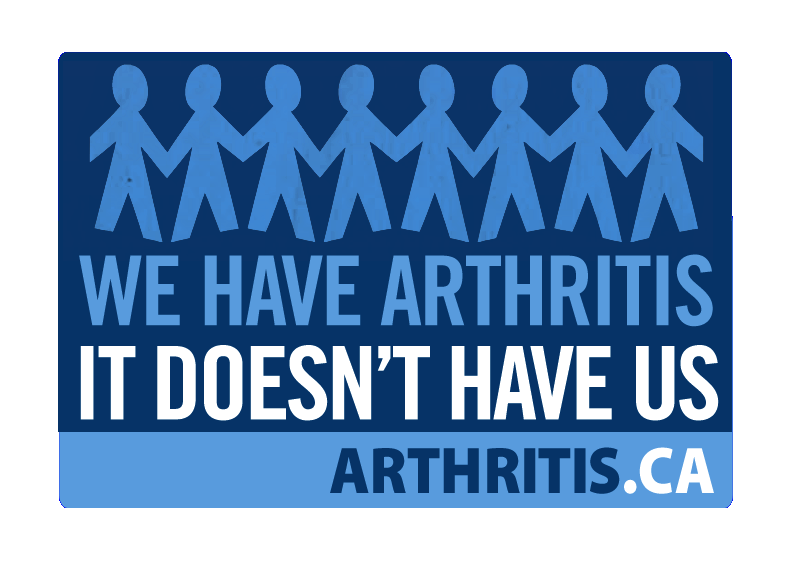
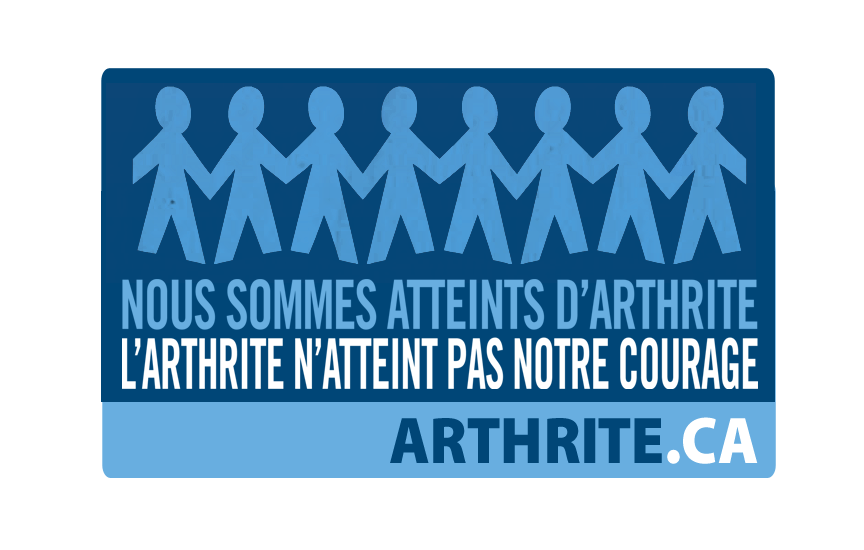
update images for french

diff --git a/lib/helpers/application_helper.rb b/lib/helpers/application_helper.rb
@@ -44,7 +44,7 @@ module Sinatra
      
     def twitter_message(photo_url)
       settings.language == 'en' ?
-        "Please support 4.6 million Canadians living with arthritis! Watch the video and share the infographic! http://wehavearthritis.ca"
+        "Please support 4.6 million Canadians living with arthritis! Watch the video & share the infographic! http://wehavearthritis.ca"
         : "Apportez votre soutien aux 4,6 M de Canadiens atteints d’arthrite! Regardez la vidéo! http://couragearthrite.ca"
     end
 
